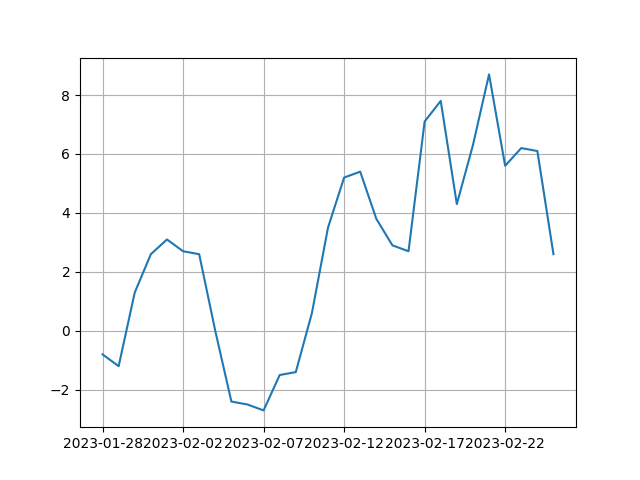
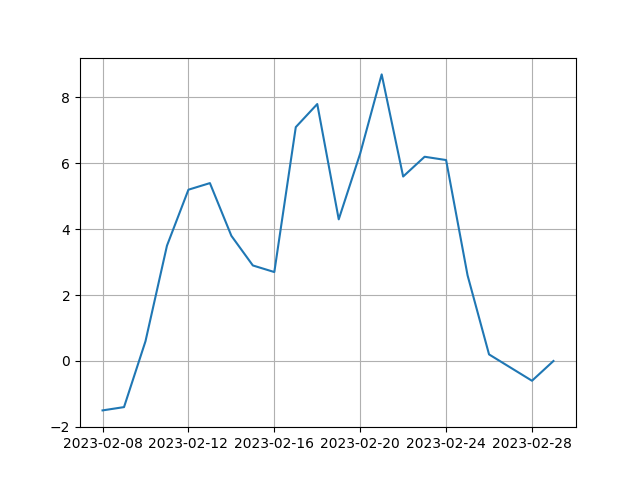
Fix

diff --git a/weather.py b/weather.py
@@ -22,7 +22,7 @@ def delete_item(list_to_check: list, targets: list) -> list:
 params = {
         'latitude': '51.10',
         'longitude': '17.03',
-        'start_date': f'{date.today().year}-{date.today().month:02d}-{date.today().day:02d}',
+        'start_date': f'{date.today().year}-{date.today().month-1:02d}-{date.today().day:02d}',
         'end_date': str(date.today()),
         'timezone': 'auto',
         'daily': 'temperature_2m_mean',
@@ -47,6 +47,7 @@ temp_data_empty = find_item(temp_data, None)
 if temp_data_empty:
     print("Caution: Some data cells are empty!")
     print("Removing empty cells by force")
+    print(temp_data_empty)
     temp_data = delete_item(temp_data, temp_data_empty)
     data_labels = delete_item(data_labels, temp_data_empty)
 
